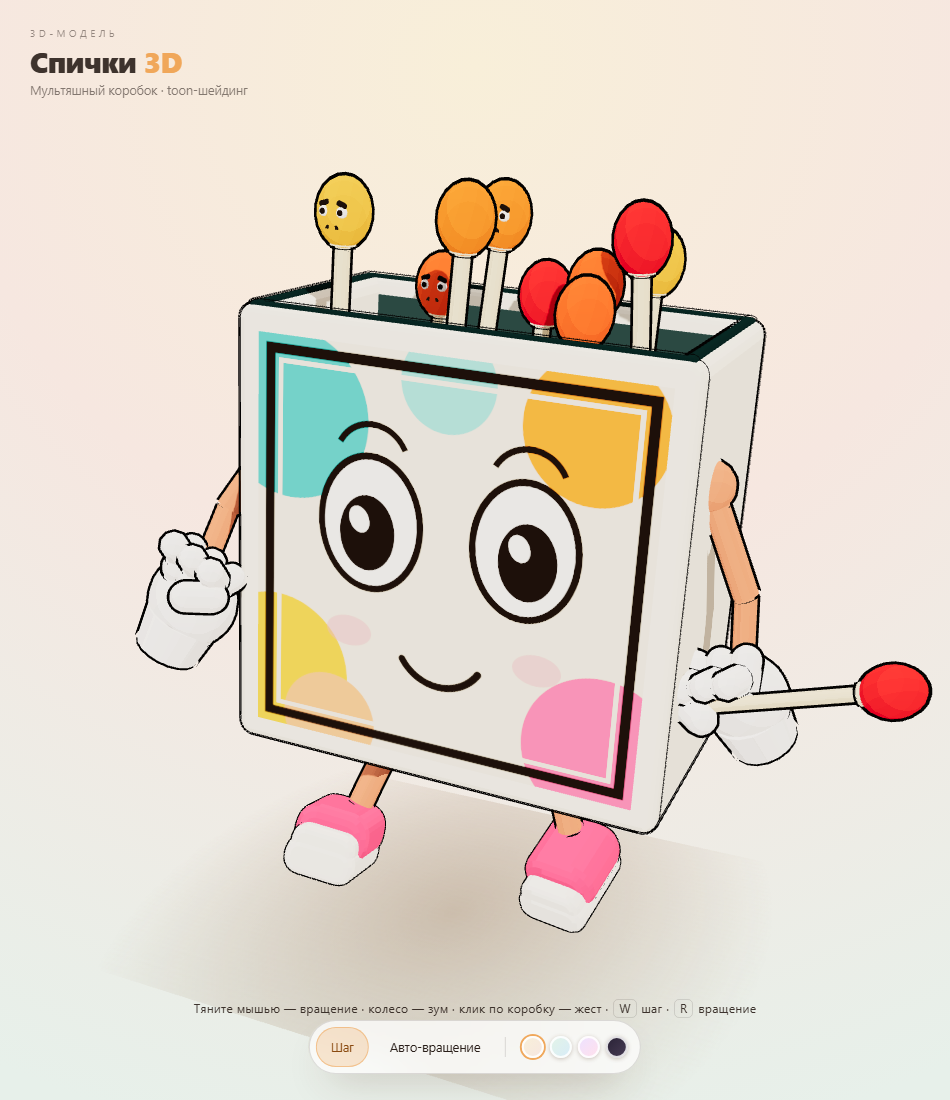
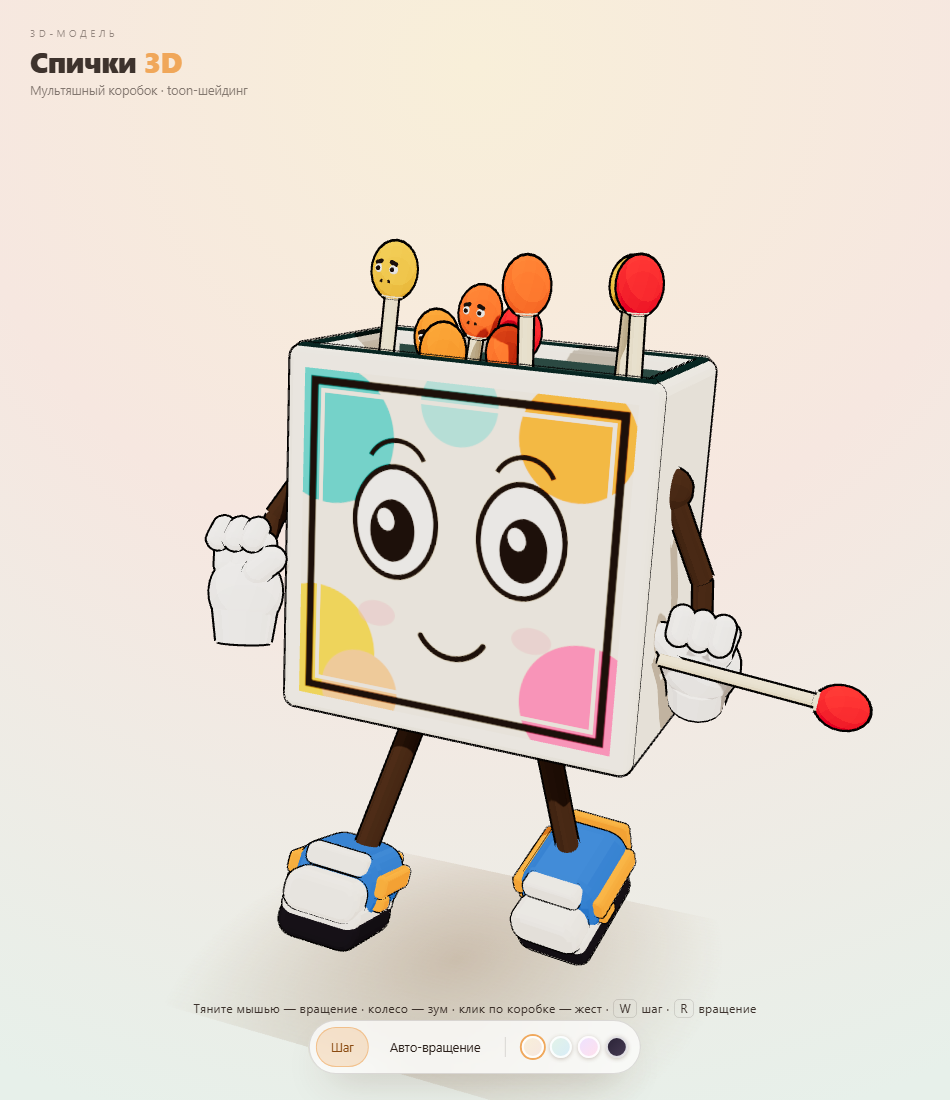
fix(matchbox): upright gloves, longer legs, blue/orange sneakers, brighter contrast palette

Changed region(s): [[0.1526, 0.1545, 1.0, 0.8964], [0.7937, 0.3091, 0.8242, 0.3709]]

diff --git a/dist/matchbox.html b/dist/matchbox.html
@@ -76,7 +76,7 @@
 </header>
 
 <div class="hint">
-  Тяните мышью — вращение · колесо — зум · клик по коробку — жест · <kbd>W</kbd> шаг · <kbd>R</kbd> вращение
+  Тяните мышью — вращение · колесо — зум · клик по коробке — жест · <kbd>W</kbd> шаг · <kbd>R</kbd> вращение
 </div>
 
 <div class="bar">
@@ -273,9 +273,11 @@ const M = {
   headD:  toon(0xff7a12),
   face:   toon(0x1d1512),
   glove:  toon(0xffffff),
-  limb:   toon(0xf28f6b),
-  shoe:   toon(0xff4f86),
-  sole:   toon(0xfffdf6),
+  limb:   toon(0x4a3423),
+  shoe:   toon(0x2f6fd0),
+  sole:   toon(0xf7f4ec),
+  accent: toon(0xff8a1f),
+  tread:  toon(0x232028),
   headHeld: toon(0xe81d2c),
   eye:    toon(0xffffff),
   pupil:  toon(0x2a1f1a)
@@ -287,7 +289,7 @@ hero.position.y = .06;
 scene.add(hero);
 
 const BW = .92, BH = .92, BD = .54, WT = .035;
-const boxY = .80;                       // центр коробка
+const boxY = 1.10;                       // центр коробка
 const topY = boxY + BH / 2, botY = boxY - BH / 2;
 
 // полый коробок: 4 стенки + дно (верх открыт — спички стоят внутри)
@@ -387,20 +389,20 @@ function glove(sign){
   g.add(palm);
   for (let i = 0; i < 3; i++){
     const f = new THREE.Mesh(new THREE.CapsuleGeometry(.031, .058, 4, 10), M.glove);
-    f.position.set((i - 1) * .050, .082, .030);
-    f.rotation.x = -.95;
-    f.rotation.z = (i - 1) * -.20;
+    f.position.set((i - 1) * .050, .098, .018);
+    f.rotation.x = -.28;
+    f.rotation.z = (i - 1) * -.16;
     f.castShadow = true;
     g.add(f);
     const f2 = new THREE.Mesh(new THREE.CapsuleGeometry(.029, .040, 4, 10), M.glove);
-    f2.position.set((i - 1) * .050, .112, .082);
-    f2.rotation.x = -2.15;
+    f2.position.set((i - 1) * .050, .150, .050);
+    f2.rotation.x = -.75;
     f2.castShadow = true;
     g.add(f2);
   }
   const thumb = new THREE.Mesh(new THREE.CapsuleGeometry(.033, .052, 4, 10), M.glove);
-  thumb.position.set(-sign * .052, .062, .098);
-  thumb.rotation.set(-1.05, 0, sign * .80);
+  thumb.position.set(-sign * .075, .072, .040);
+  thumb.rotation.set(-.30, 0, sign * .85);
   thumb.castShadow = true;
   g.add(thumb);
   return g;
@@ -426,7 +428,7 @@ function heldMatch(){
 const armPivots = {};
 [-1, 1].forEach(function(sign){
   const pivot = new THREE.Group();
-  pivot.position.set(sign * (BW / 2 + .005), 1.00, .07);
+  pivot.position.set(sign * (BW / 2 + .005), 1.30, .07);
   hero.add(pivot);
   const sb = ball(.052, M.limb, 16);
   pivot.add(sb);
@@ -437,8 +439,8 @@ const armPivots = {};
 
   const hand = glove(sign);
   hand.position.set(wrist[0], wrist[1] - .015, wrist[2]);
-  hand.rotation.z = sign * .52;
-  hand.rotation.x = .12;
+  hand.rotation.z = 0;
+  hand.rotation.x = .08;
   pivot.add(hand);
 
   if (sign > 0) hand.add(heldMatch());    // спичка в правой перчатке
@@ -448,22 +450,28 @@ const armPivots = {};
 /* --- ноги и обувь --- *//* --- ноги и обувь --- */
 const legParts = {};
 [-1, 1].forEach(function(sign){
-  const hip = new THREE.Vector3(sign * .16, botY + .055, .03);
-  const ankle = new THREE.Vector3(sign * .205, .125, .080);
-  const s1 = stick(hip.toArray(), ankle.toArray(), .028, M.limb, hero);
+  const hip = new THREE.Vector3(sign * .155, botY + .04, .03);
+  const ankle = new THREE.Vector3(sign * .210, .155, .085);
+  const s1 = stick(hip.toArray(), ankle.toArray(), .030, M.limb, hero);
   legParts[sign > 0 ? 'R' : 'L'] = {hip:hip, stick:s1};
 });
 
 function shoe(sign){
   const g = new THREE.Group();
-  rbox(.235, .085, .42, .040, M.sole, 0, .042, .05, g);      // подошва
-  rbox(.225, .125, .34, .055, M.shoe, 0, .135, .01, g);      // верх
-  rbox(.215, .075, .13, .035, M.sole, 0, .105, .19, g);      // носок
-  rbox(.10, .045, .06, .018, M.sole, 0, .195, .105, g);      // язык
-  rbox(.13, .030, .05, .012, M.shoe, 0, .062, -.06, g);      // задник
-  g.position.set(sign * .222, -.004, .115);
-  g.rotation.y = -sign * .14;
-  g.scale.setScalar(.52);
+  rbox(.245, .075, .44, .038, M.tread, 0, .038, .05, g);      // подошва тёмная
+  rbox(.255, .055, .45, .040, M.sole, 0, .092, .05, g);       // светлая окантовка
+  rbox(.235, .150, .36, .055, M.shoe, 0, .185, .005, g);      // синий верх
+  rbox(.225, .085, .14, .035, M.sole, 0, .150, .245, g);      // белый мысок
+  rbox(.205, .048, .075, .016, M.sole, 0, .272, .185, g);     // язычок
+  rbox(.235, .120, .026, .012, M.accent, 0, .200, -.238, g);  // оранжевая пятка
+  [-1, 1].forEach(function(sd){
+    rbox(.026, .060, .31, .012, M.accent, sd * .172, .208, .010, g);   // оранжевая полоса по боку
+    rbox(.030, .036, .08, .010, M.accent, sd * .170, .140, .100, g);   // оранжевый акцент у мыска
+  });
+  rbox(.245, .026, .05, .008, M.tread, 0, .128, .05, g);      // тонкая тёмная линия
+  g.position.set(sign * .225, -.004, .095);
+  g.rotation.y = -sign * .12;
+  g.scale.setScalar(.70);
   hero.add(g);
   return g;
 }
@@ -530,8 +538,8 @@ rimLight.position.set(-1.2, 2.0, -2.4);
 scene.add(rimLight);
 
 /* ---------------------------------------------------------------- камера */
-const target = new THREE.Vector3(0, .84, 0);
-const cam = {az:.44, pol:1.27, rad:2.98, taz:.44, tpol:1.27, trad:2.98};
+const target = new THREE.Vector3(0, 1.14, 0);
+const cam = {az:.44, pol:1.34, rad:3.60, taz:.44, tpol:1.34, trad:3.60};
 let spin = false, walkOn = true;
 let dragging = false, lastX = 0, lastY = 0, moved = 0, lastInteract = performance.now();
 

diff --git a/src/matchbox/index.html b/src/matchbox/index.html
@@ -76,7 +76,7 @@
 </header>
 
 <div class="hint">
-  Тяните мышью — вращение · колесо — зум · клик по коробку — жест · <kbd>W</kbd> шаг · <kbd>R</kbd> вращение
+  Тяните мышью — вращение · колесо — зум · клик по коробке — жест · <kbd>W</kbd> шаг · <kbd>R</kbd> вращение
 </div>
 
 <div class="bar">
@@ -266,9 +266,11 @@ const M = {
   headD:  toon(0xff7a12),
   face:   toon(0x1d1512),
   glove:  toon(0xffffff),
-  limb:   toon(0xf28f6b),
-  shoe:   toon(0xff4f86),
-  sole:   toon(0xfffdf6),
+  limb:   toon(0x4a3423),
+  shoe:   toon(0x2f6fd0),
+  sole:   toon(0xf7f4ec),
+  accent: toon(0xff8a1f),
+  tread:  toon(0x232028),
   headHeld: toon(0xe81d2c),
   eye:    toon(0xffffff),
   pupil:  toon(0x2a1f1a)
@@ -280,7 +282,7 @@ hero.position.y = .06;
 scene.add(hero);
 
 const BW = .92, BH = .92, BD = .54, WT = .035;
-const boxY = .80;                       // центр коробка
+const boxY = 1.10;                       // центр коробка
 const topY = boxY + BH / 2, botY = boxY - BH / 2;
 
 // полый коробок: 4 стенки + дно (верх открыт — спички стоят внутри)
@@ -380,20 +382,20 @@ function glove(sign){
   g.add(palm);
   for (let i = 0; i < 3; i++){
     const f = new THREE.Mesh(new THREE.CapsuleGeometry(.031, .058, 4, 10), M.glove);
-    f.position.set((i - 1) * .050, .082, .030);
-    f.rotation.x = -.95;
-    f.rotation.z = (i - 1) * -.20;
+    f.position.set((i - 1) * .050, .098, .018);
+    f.rotation.x = -.28;
+    f.rotation.z = (i - 1) * -.16;
     f.castShadow = true;
     g.add(f);
     const f2 = new THREE.Mesh(new THREE.CapsuleGeometry(.029, .040, 4, 10), M.glove);
-    f2.position.set((i - 1) * .050, .112, .082);
-    f2.rotation.x = -2.15;
+    f2.position.set((i - 1) * .050, .150, .050);
+    f2.rotation.x = -.75;
     f2.castShadow = true;
     g.add(f2);
   }
   const thumb = new THREE.Mesh(new THREE.CapsuleGeometry(.033, .052, 4, 10), M.glove);
-  thumb.position.set(-sign * .052, .062, .098);
-  thumb.rotation.set(-1.05, 0, sign * .80);
+  thumb.position.set(-sign * .075, .072, .040);
+  thumb.rotation.set(-.30, 0, sign * .85);
   thumb.castShadow = true;
   g.add(thumb);
   return g;
@@ -419,7 +421,7 @@ function heldMatch(){
 const armPivots = {};
 [-1, 1].forEach(function(sign){
   const pivot = new THREE.Group();
-  pivot.position.set(sign * (BW / 2 + .005), 1.00, .07);
+  pivot.position.set(sign * (BW / 2 + .005), 1.30, .07);
   hero.add(pivot);
   const sb = ball(.052, M.limb, 16);
   pivot.add(sb);
@@ -430,8 +432,8 @@ const armPivots = {};
 
   const hand = glove(sign);
   hand.position.set(wrist[0], wrist[1] - .015, wrist[2]);
-  hand.rotation.z = sign * .52;
-  hand.rotation.x = .12;
+  hand.rotation.z = 0;
+  hand.rotation.x = .08;
   pivot.add(hand);
 
   if (sign > 0) hand.add(heldMatch());    // спичка в правой перчатке
@@ -441,22 +443,28 @@ const armPivots = {};
 /* --- ноги и обувь --- *//* --- ноги и обувь --- */
 const legParts = {};
 [-1, 1].forEach(function(sign){
-  const hip = new THREE.Vector3(sign * .16, botY + .055, .03);
-  const ankle = new THREE.Vector3(sign * .205, .125, .080);
-  const s1 = stick(hip.toArray(), ankle.toArray(), .028, M.limb, hero);
+  const hip = new THREE.Vector3(sign * .155, botY + .04, .03);
+  const ankle = new THREE.Vector3(sign * .210, .155, .085);
+  const s1 = stick(hip.toArray(), ankle.toArray(), .030, M.limb, hero);
   legParts[sign > 0 ? 'R' : 'L'] = {hip:hip, stick:s1};
 });
 
 function shoe(sign){
   const g = new THREE.Group();
-  rbox(.235, .085, .42, .040, M.sole, 0, .042, .05, g);      // подошва
-  rbox(.225, .125, .34, .055, M.shoe, 0, .135, .01, g);      // верх
-  rbox(.215, .075, .13, .035, M.sole, 0, .105, .19, g);      // носок
-  rbox(.10, .045, .06, .018, M.sole, 0, .195, .105, g);      // язык
-  rbox(.13, .030, .05, .012, M.shoe, 0, .062, -.06, g);      // задник
-  g.position.set(sign * .222, -.004, .115);
-  g.rotation.y = -sign * .14;
-  g.scale.setScalar(.52);
+  rbox(.245, .075, .44, .038, M.tread, 0, .038, .05, g);      // подошва тёмная
+  rbox(.255, .055, .45, .040, M.sole, 0, .092, .05, g);       // светлая окантовка
+  rbox(.235, .150, .36, .055, M.shoe, 0, .185, .005, g);      // синий верх
+  rbox(.225, .085, .14, .035, M.sole, 0, .150, .245, g);      // белый мысок
+  rbox(.205, .048, .075, .016, M.sole, 0, .272, .185, g);     // язычок
+  rbox(.235, .120, .026, .012, M.accent, 0, .200, -.238, g);  // оранжевая пятка
+  [-1, 1].forEach(function(sd){
+    rbox(.026, .060, .31, .012, M.accent, sd * .172, .208, .010, g);   // оранжевая полоса по боку
+    rbox(.030, .036, .08, .010, M.accent, sd * .170, .140, .100, g);   // оранжевый акцент у мыска
+  });
+  rbox(.245, .026, .05, .008, M.tread, 0, .128, .05, g);      // тонкая тёмная линия
+  g.position.set(sign * .225, -.004, .095);
+  g.rotation.y = -sign * .12;
+  g.scale.setScalar(.70);
   hero.add(g);
   return g;
 }
@@ -523,8 +531,8 @@ rimLight.position.set(-1.2, 2.0, -2.4);
 scene.add(rimLight);
 
 /* ---------------------------------------------------------------- камера */
-const target = new THREE.Vector3(0, .84, 0);
-const cam = {az:.44, pol:1.27, rad:2.98, taz:.44, tpol:1.27, trad:2.98};
+const target = new THREE.Vector3(0, 1.14, 0);
+const cam = {az:.44, pol:1.34, rad:3.60, taz:.44, tpol:1.34, trad:3.60};
 let spin = false, walkOn = true;
 let dragging = false, lastX = 0, lastY = 0, moved = 0, lastInteract = performance.now();
 
